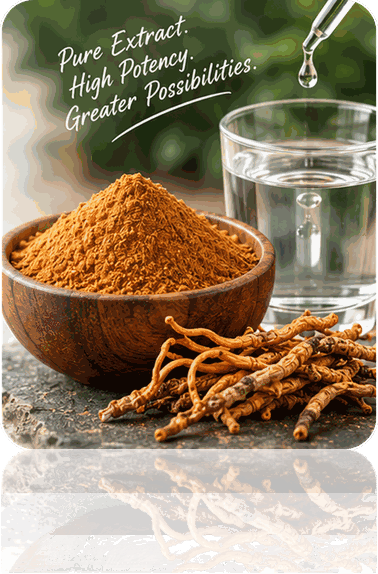
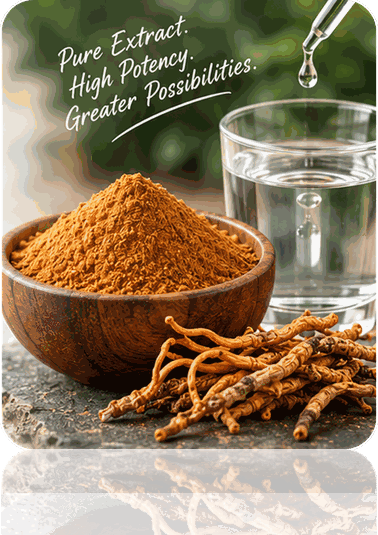
Enlarge only the Cordy Maxx photo, restoring the original card thumb
Revert the card thumb to its 4/3 white box with 14px padding — the card
layout was not meant to change. Keep the size gain in the image itself by
trimming the Cordy Maxx PNG down to the photo (378x574 -> 378x535), which
also drops the faint reflection strip below it, so `object-fit:contain`
sizes off the picture and renders it about 50% wider inside the unchanged
thumb.

Claude-Session: https://claude.ai/code/session_01XZSsv9552bU247L8W3F44w

diff --git a/durt-cordyceps-range.html b/durt-cordyceps-range.html
@@ -747,9 +747,9 @@ class="post-310 page type-page status-publish ast-article-single" id="post-310" 
   }
   #cordy-page .p-card:hover{box-shadow:0 14px 30px -14px rgba(20,20,20,0.25);transform:translateY(-3px);}
   #cordy-page .p-thumb{
-    aspect-ratio:1/1;background:var(--paper);position:relative;overflow:hidden;
+    aspect-ratio:4/3;background:#ffffff;position:relative;overflow:hidden;
   }
-  #cordy-page .p-thumb img{width:100%;height:100%;object-fit:contain;padding:6px 6px 0;}
+  #cordy-page .p-thumb img{width:100%;height:100%;object-fit:contain;padding:14px;}
   #cordy-page .p-body{padding:20px 20px 22px;display:flex;flex-direction:column;flex:1;}
   #cordy-page .p-body h3{font-size:18px;font-family:'Poppins',sans-serif;font-weight:600;line-height:1.28;}
   #cordy-page .p-specs{display:flex;flex-wrap:wrap;gap:6px;margin-top:12px;}
